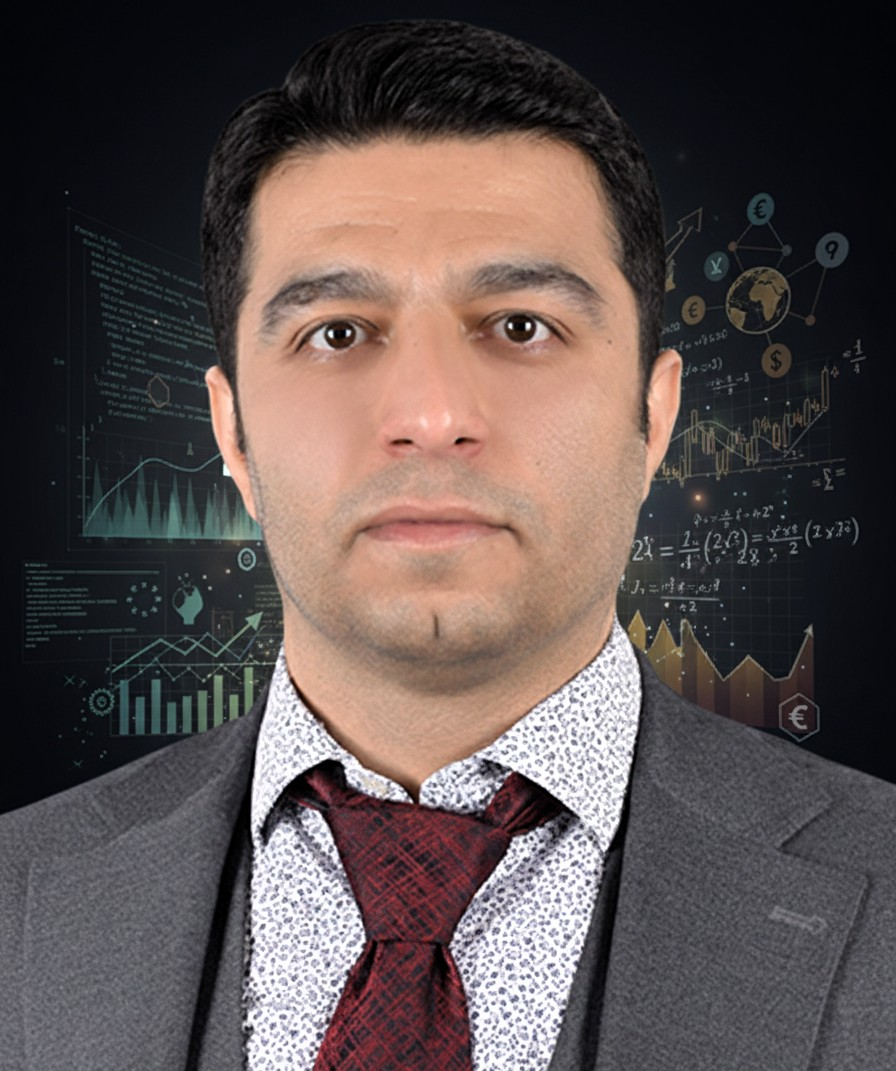
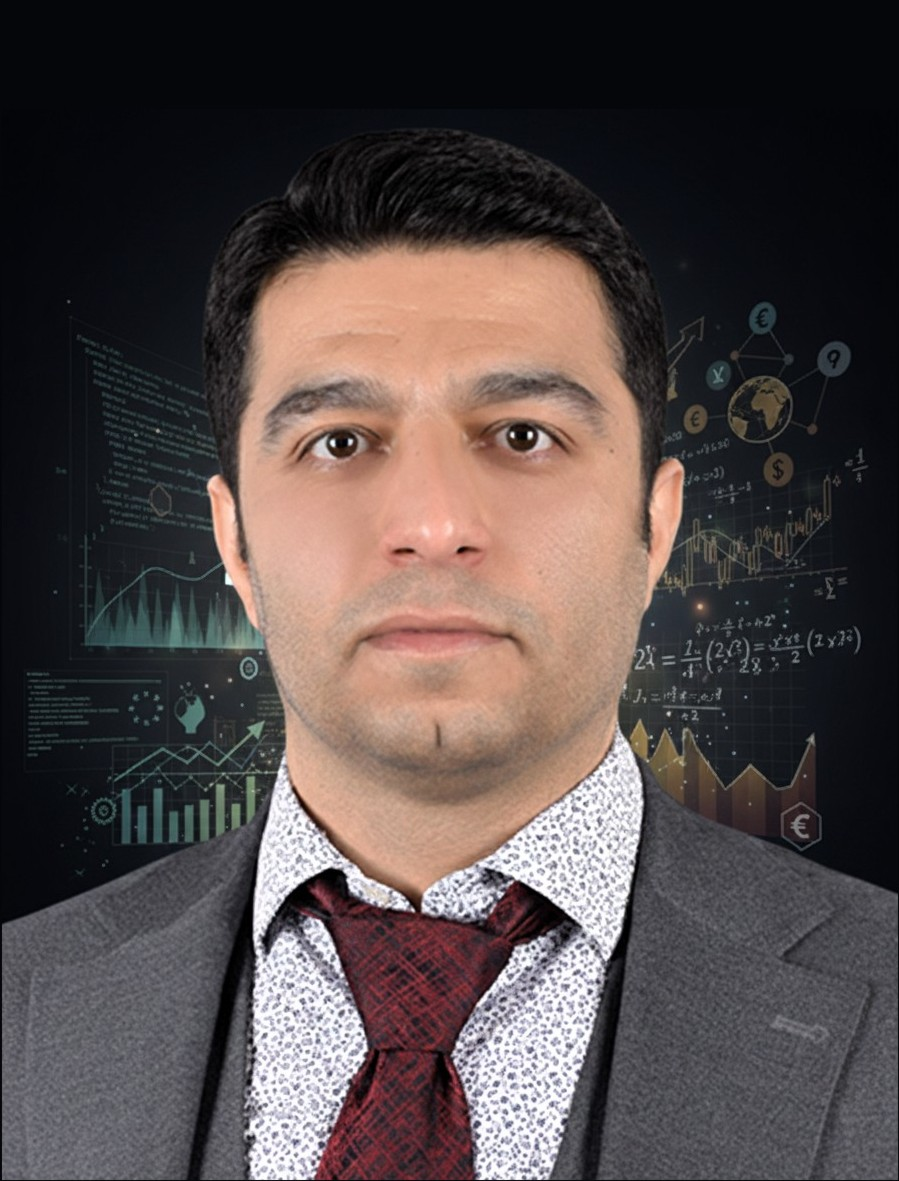
update IMG

diff --git a/docs/codes/stock_assets_python.html b/docs/codes/stock_assets_python.html
@@ -110,6 +110,7 @@ pre > code.sourceCode > span > a:first-child::before { text-decoration: underlin
 
 
 <link rel="stylesheet" href="../styles.css">
+<link rel="canonical" href="https://shahram-dehghan-j.github.io/codes/stock_assets_python.html">
 </head>
 
 <body class="nav-sidebar docked nav-fixed quarto-light">
@@ -216,7 +217,7 @@ pre > code.sourceCode > span > a:first-child::before { text-decoration: underlin
     <div class="sidebar-menu-container"> 
     <ul class="list-unstyled mt-1">
         <li class="sidebar-item">
- <span class="menu-text"><img src="../websiteIMG.jpg" style="border-radius:50%/50%;width:220px;height:220px;"></span>
+ <span class="menu-text"><img src="../websiteIMG.jpg" style="border-radius:50%/50%;width:220px;height:250px;"></span>
   </li>
         <li class="sidebar-item">
  <span class="menu-text"><strong>Ph.D.</strong></span>

diff --git a/docs/codes/stock_assets_r.html b/docs/codes/stock_assets_r.html
@@ -110,6 +110,7 @@ pre > code.sourceCode > span > a:first-child::before { text-decoration: underlin
 
 
 <link rel="stylesheet" href="../styles.css">
+<link rel="canonical" href="https://shahram-dehghan-j.github.io/codes/stock_assets_r.html">
 </head>
 
 <body class="nav-sidebar docked nav-fixed quarto-light">
@@ -216,7 +217,7 @@ pre > code.sourceCode > span > a:first-child::before { text-decoration: underlin
     <div class="sidebar-menu-container"> 
     <ul class="list-unstyled mt-1">
         <li class="sidebar-item">
- <span class="menu-text"><img src="../websiteIMG.jpg" style="border-radius:50%/50%;width:220px;height:220px;"></span>
+ <span class="menu-text"><img src="../websiteIMG.jpg" style="border-radius:50%/50%;width:220px;height:250px;"></span>
   </li>
         <li class="sidebar-item">
  <span class="menu-text"><strong>Ph.D.</strong></span>

diff --git a/docs/codes/economic_indicators_python.html b/docs/codes/economic_indicators_python.html
@@ -75,6 +75,7 @@ ul.task-list li input[type="checkbox"] {
 
 
 <link rel="stylesheet" href="../styles.css">
+<link rel="canonical" href="https://shahram-dehghan-j.github.io/codes/economic_indicators_python.html">
 </head>
 
 <body class="nav-sidebar docked nav-fixed quarto-light">
@@ -181,7 +182,7 @@ ul.task-list li input[type="checkbox"] {
     <div class="sidebar-menu-container"> 
     <ul class="list-unstyled mt-1">
         <li class="sidebar-item">
- <span class="menu-text"><img src="../websiteIMG.jpg" style="border-radius:50%/50%;width:220px;height:220px;"></span>
+ <span class="menu-text"><img src="../websiteIMG.jpg" style="border-radius:50%/50%;width:220px;height:250px;"></span>
   </li>
         <li class="sidebar-item">
  <span class="menu-text"><strong>Ph.D.</strong></span>

diff --git a/docs/codes/economic_indicators_r.html b/docs/codes/economic_indicators_r.html
@@ -75,6 +75,7 @@ ul.task-list li input[type="checkbox"] {
 
 
 <link rel="stylesheet" href="../styles.css">
+<link rel="canonical" href="https://shahram-dehghan-j.github.io/codes/economic_indicators_r.html">
 </head>
 
 <body class="nav-sidebar docked nav-fixed quarto-light">
@@ -181,7 +182,7 @@ ul.task-list li input[type="checkbox"] {
     <div class="sidebar-menu-container"> 
     <ul class="list-unstyled mt-1">
         <li class="sidebar-item">
- <span class="menu-text"><img src="../websiteIMG.jpg" style="border-radius:50%/50%;width:220px;height:220px;"></span>
+ <span class="menu-text"><img src="../websiteIMG.jpg" style="border-radius:50%/50%;width:220px;height:250px;"></span>
   </li>
         <li class="sidebar-item">
  <span class="menu-text"><strong>Ph.D.</strong></span>

diff --git a/docs/codes/phys_org_python.html b/docs/codes/phys_org_python.html
@@ -75,6 +75,7 @@ ul.task-list li input[type="checkbox"] {
 
 
 <link rel="stylesheet" href="../styles.css">
+<link rel="canonical" href="https://shahram-dehghan-j.github.io/codes/phys_org_python.html">
 </head>
 
 <body class="nav-sidebar docked nav-fixed quarto-light">
@@ -181,7 +182,7 @@ ul.task-list li input[type="checkbox"] {
     <div class="sidebar-menu-container"> 
     <ul class="list-unstyled mt-1">
         <li class="sidebar-item">
- <span class="menu-text"><img src="../websiteIMG.jpg" style="border-radius:50%/50%;width:220px;height:220px;"></span>
+ <span class="menu-text"><img src="../websiteIMG.jpg" style="border-radius:50%/50%;width:220px;height:250px;"></span>
   </li>
         <li class="sidebar-item">
  <span class="menu-text"><strong>Ph.D.</strong></span>

diff --git a/docs/publications.html b/docs/publications.html
@@ -75,6 +75,7 @@ ul.task-list li input[type="checkbox"] {
 
 
 <link rel="stylesheet" href="styles.css">
+<link rel="canonical" href="https://shahram-dehghan-j.github.io/publications.html">
 </head>
 
 <body class="nav-sidebar docked nav-fixed fullcontent quarto-light">
@@ -181,7 +182,7 @@ ul.task-list li input[type="checkbox"] {
     <div class="sidebar-menu-container"> 
     <ul class="list-unstyled mt-1">
         <li class="sidebar-item">
- <span class="menu-text"><img src="./websiteIMG.jpg" style="border-radius:50%/50%;width:220px;height:220px;"></span>
+ <span class="menu-text"><img src="./websiteIMG.jpg" style="border-radius:50%/50%;width:220px;height:250px;"></span>
   </li>
         <li class="sidebar-item">
  <span class="menu-text"><strong>Ph.D.</strong></span>

diff --git a/docs/educations.html b/docs/educations.html
@@ -75,6 +75,7 @@ ul.task-list li input[type="checkbox"] {
 
 
 <link rel="stylesheet" href="styles.css">
+<link rel="canonical" href="https://shahram-dehghan-j.github.io/educations.html">
 </head>
 
 <body class="nav-sidebar docked nav-fixed fullcontent quarto-light">
@@ -181,7 +182,7 @@ ul.task-list li input[type="checkbox"] {
     <div class="sidebar-menu-container"> 
     <ul class="list-unstyled mt-1">
         <li class="sidebar-item">
- <span class="menu-text"><img src="./websiteIMG.jpg" style="border-radius:50%/50%;width:220px;height:220px;"></span>
+ <span class="menu-text"><img src="./websiteIMG.jpg" style="border-radius:50%/50%;width:220px;height:250px;"></span>
   </li>
         <li class="sidebar-item">
  <span class="menu-text"><strong>Ph.D.</strong></span>

diff --git a/docs/pythonPage.html b/docs/pythonPage.html
@@ -75,6 +75,7 @@ ul.task-list li input[type="checkbox"] {
 
 
 <link rel="stylesheet" href="styles.css">
+<link rel="canonical" href="https://shahram-dehghan-j.github.io/pythonPage.html">
 </head>
 
 <body class="nav-sidebar docked nav-fixed fullcontent quarto-light">
@@ -181,7 +182,7 @@ ul.task-list li input[type="checkbox"] {
     <div class="sidebar-menu-container"> 
     <ul class="list-unstyled mt-1">
         <li class="sidebar-item">
- <span class="menu-text"><img src="./websiteIMG.jpg" style="border-radius:50%/50%;width:220px;height:220px;"></span>
+ <span class="menu-text"><img src="./websiteIMG.jpg" style="border-radius:50%/50%;width:220px;height:250px;"></span>
   </li>
         <li class="sidebar-item">
  <span class="menu-text"><strong>Ph.D.</strong></span>

diff --git a/docs/interests.html b/docs/interests.html
@@ -75,6 +75,7 @@ ul.task-list li input[type="checkbox"] {
 
 
 <link rel="stylesheet" href="styles.css">
+<link rel="canonical" href="https://shahram-dehghan-j.github.io/interests.html">
 </head>
 
 <body class="nav-sidebar docked nav-fixed fullcontent quarto-light">
@@ -181,7 +182,7 @@ ul.task-list li input[type="checkbox"] {
     <div class="sidebar-menu-container"> 
     <ul class="list-unstyled mt-1">
         <li class="sidebar-item">
- <span class="menu-text"><img src="./websiteIMG.jpg" style="border-radius:50%/50%;width:220px;height:220px;"></span>
+ <span class="menu-text"><img src="./websiteIMG.jpg" style="border-radius:50%/50%;width:220px;height:250px;"></span>
   </li>
         <li class="sidebar-item">
  <span class="menu-text"><strong>Ph.D.</strong></span>

diff --git a/docs/latexPage.html b/docs/latexPage.html
@@ -75,6 +75,7 @@ ul.task-list li input[type="checkbox"] {
 
 
 <link rel="stylesheet" href="styles.css">
+<link rel="canonical" href="https://shahram-dehghan-j.github.io/latexPage.html">
 </head>
 
 <body class="nav-sidebar docked nav-fixed fullcontent quarto-light">
@@ -181,7 +182,7 @@ ul.task-list li input[type="checkbox"] {
     <div class="sidebar-menu-container"> 
     <ul class="list-unstyled mt-1">
         <li class="sidebar-item">
- <span class="menu-text"><img src="./websiteIMG.jpg" style="border-radius:50%/50%;width:220px;height:220px;"></span>
+ <span class="menu-text"><img src="./websiteIMG.jpg" style="border-radius:50%/50%;width:220px;height:250px;"></span>
   </li>
         <li class="sidebar-item">
  <span class="menu-text"><strong>Ph.D.</strong></span>

diff --git a/docs/dataPage.html b/docs/dataPage.html
@@ -75,6 +75,7 @@ ul.task-list li input[type="checkbox"] {
 
 
 <link rel="stylesheet" href="styles.css">
+<link rel="canonical" href="https://shahram-dehghan-j.github.io/dataPage.html">
 </head>
 
 <body class="nav-sidebar docked nav-fixed fullcontent quarto-light">
@@ -181,7 +182,7 @@ ul.task-list li input[type="checkbox"] {
     <div class="sidebar-menu-container"> 
     <ul class="list-unstyled mt-1">
         <li class="sidebar-item">
- <span class="menu-text"><img src="./websiteIMG.jpg" style="border-radius:50%/50%;width:220px;height:220px;"></span>
+ <span class="menu-text"><img src="./websiteIMG.jpg" style="border-radius:50%/50%;width:220px;height:250px;"></span>
   </li>
         <li class="sidebar-item">
  <span class="menu-text"><strong>Ph.D.</strong></span>

diff --git a/docs/teaches.html b/docs/teaches.html
@@ -75,6 +75,7 @@ ul.task-list li input[type="checkbox"] {
 
 
 <link rel="stylesheet" href="styles.css">
+<link rel="canonical" href="https://shahram-dehghan-j.github.io/teaches.html">
 </head>
 
 <body class="nav-sidebar docked nav-fixed fullcontent quarto-light">
@@ -181,7 +182,7 @@ ul.task-list li input[type="checkbox"] {
     <div class="sidebar-menu-container"> 
     <ul class="list-unstyled mt-1">
         <li class="sidebar-item">
- <span class="menu-text"><img src="./websiteIMG.jpg" style="border-radius:50%/50%;width:220px;height:220px;"></span>
+ <span class="menu-text"><img src="./websiteIMG.jpg" style="border-radius:50%/50%;width:220px;height:250px;"></span>
   </li>
         <li class="sidebar-item">
  <span class="menu-text"><strong>Ph.D.</strong></span>
